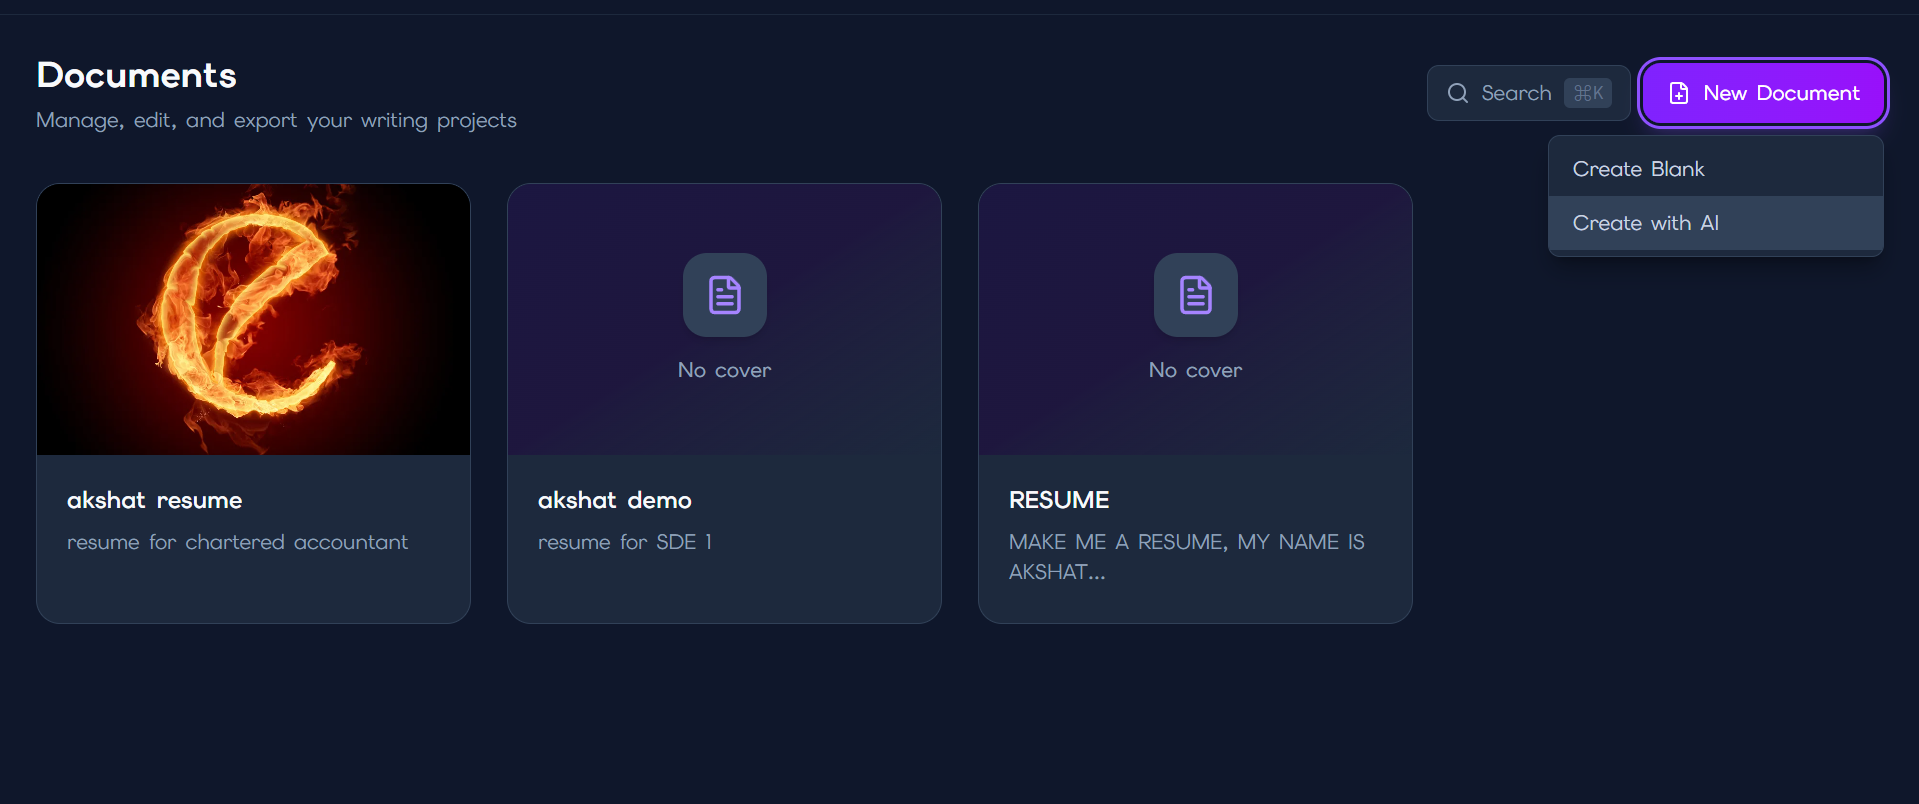
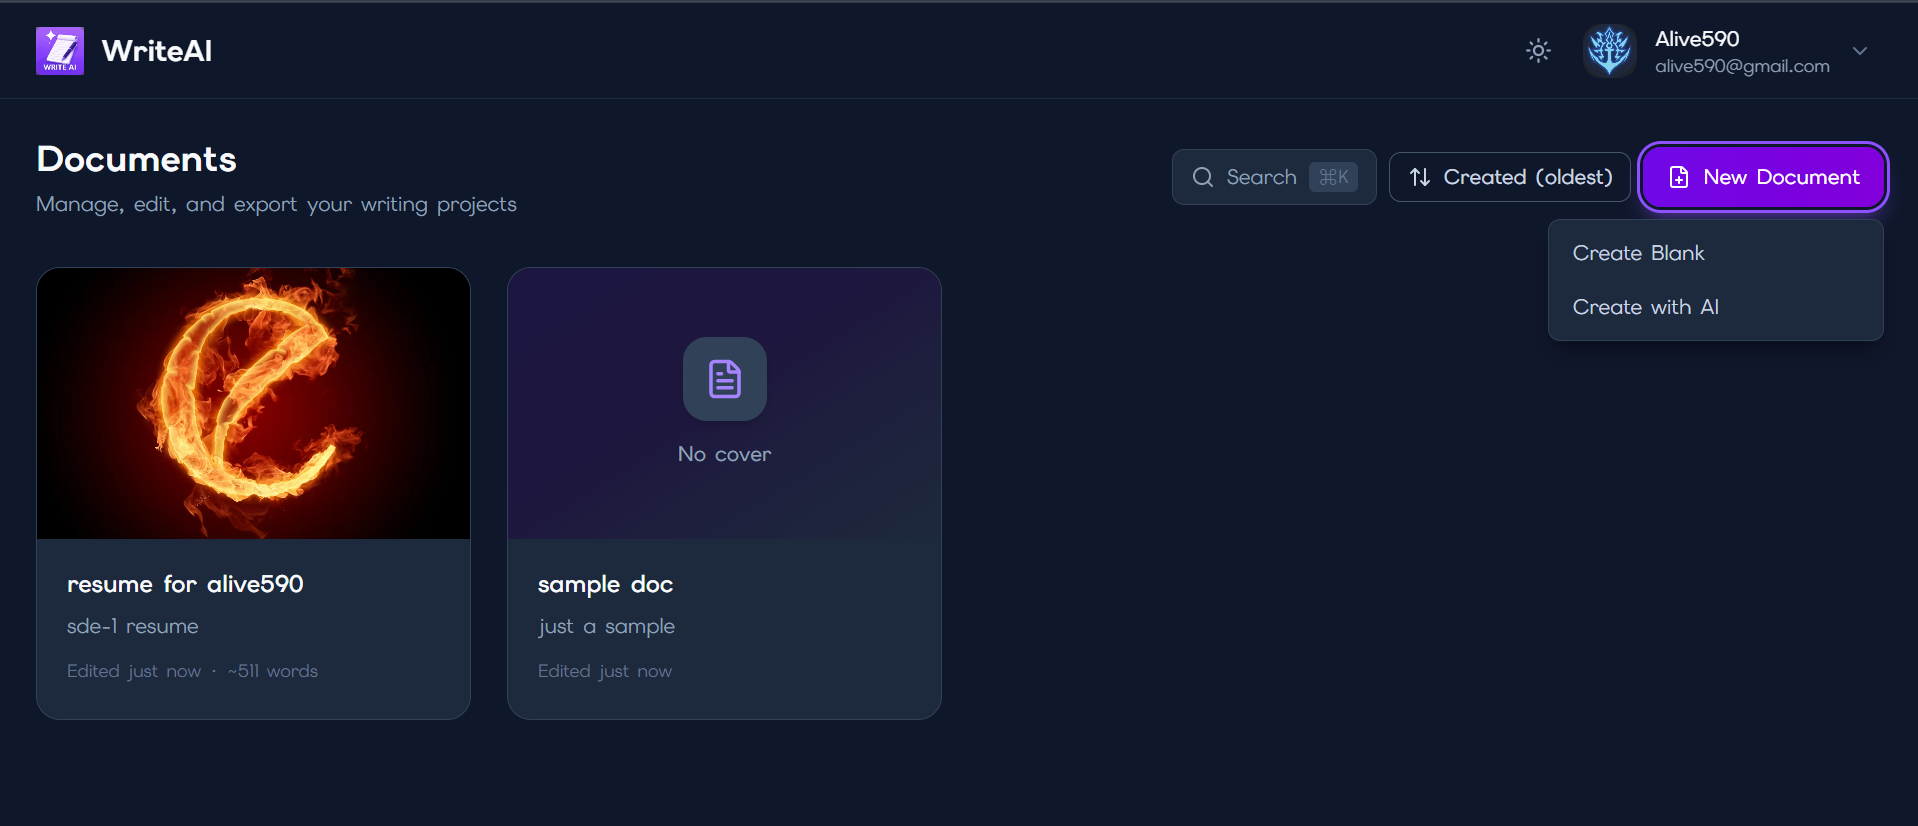
docs: refresh dashboard screenshot and document recent UX additions
- Replace dashboard.png with the new shot showing sort dropdown, "Edited Nago · ~N words" metadata, and the graceful 0-words hide on empty docs
- Update Writing Experience features to cover Ctrl+S, inline title editing, leave-guard on unsaved changes, dashboard sort + 3-dot rename, and the spinner/lock affordances on import/export

diff --git a/README.md b/README.md
@@ -59,10 +59,12 @@ Documents are stored as ordered `DocumentChunk` records in MongoDB. The editor t
 ### ✍ Writing Experience
 - CodeMirror 6 markdown editor with live split preview
 - Chunk-based autosave — only changed sections are written to the DB
-- Save states: saved / saving / dirty / error
-- Import PDF or DOCX — text extracted and replaced into chunks
-- Export to styled PDF or DOCX via background queue
+- Save states: saved / saving / dirty / error, with a persistent status bubble
+- `Ctrl+S` save shortcut, inline title editing in the header, and a leave-guard (browser close + in-app nav) when there are unsaved changes
+- Import PDF or DOCX — text extracted and replaced into chunks; spinner feedback on the action button
+- Export to styled PDF or DOCX via background queue; export dropdown locks while a job is in flight
 - Full-text search across documents and chunk content
+- Dashboard with client-side sort (last edited / created / title), inline rename via a per-card 3-dot menu, and "Edited Nago · ~N words" metadata cached on every save
 
 ### 🤖 AI Writing (Gemini 2.5 Flash)
 - 8 actions: Generate Draft, Continue, Rewrite, Expand, Shorten, Fix Grammar, Simplify, Custom Prompt
